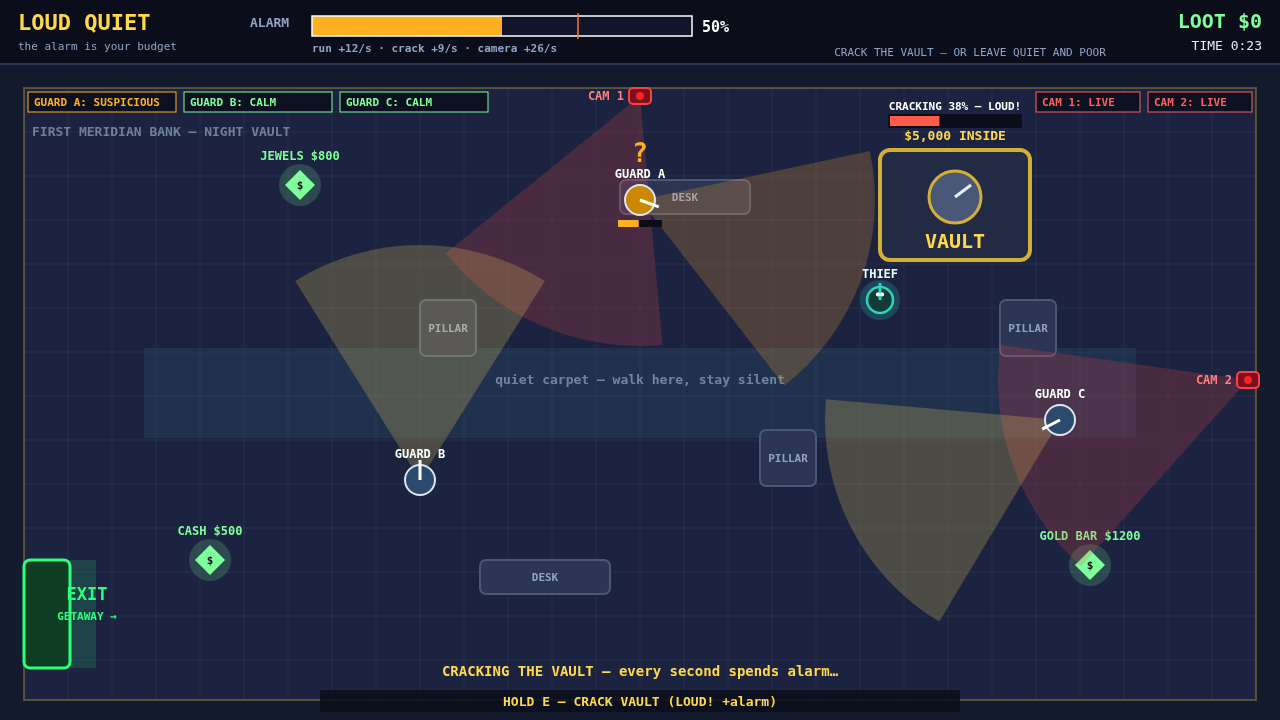
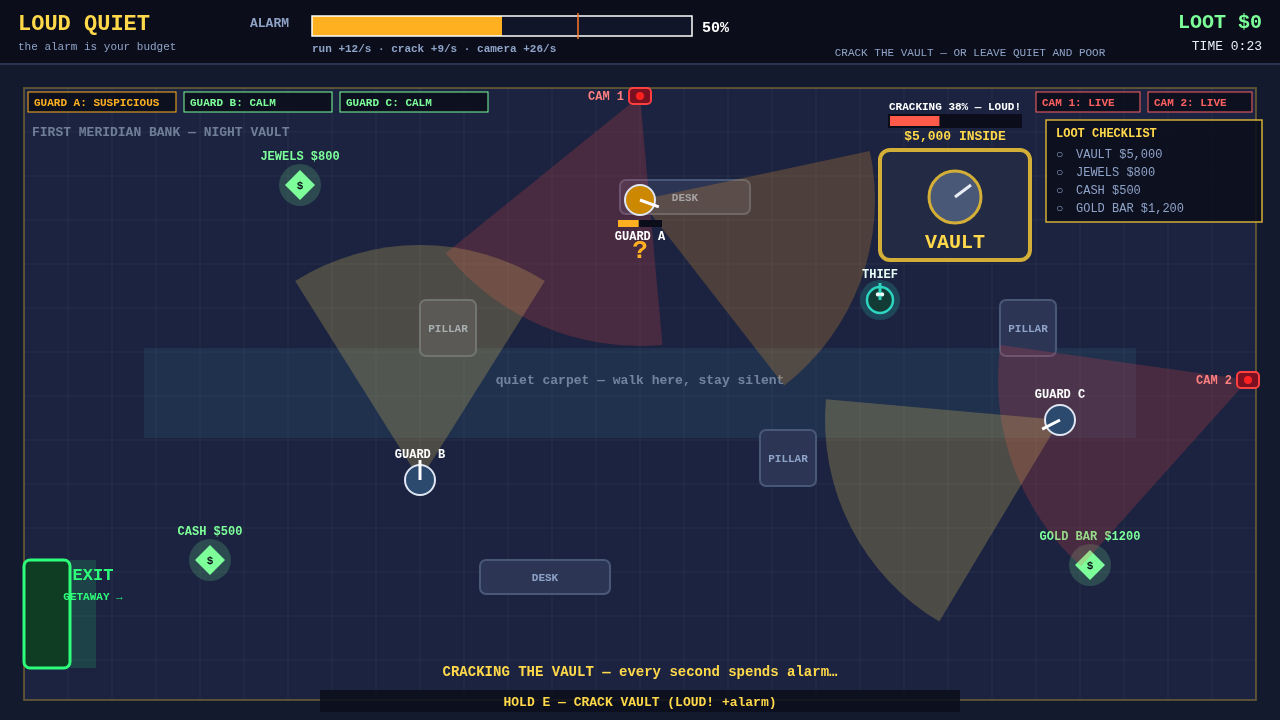
Revise: HUD loot checklist + label overlap fixes
- Add loot checklist to the HUD (drawLootChecklist + lootChecklist):
  VAULT $5,000 / JEWELS $800 / CASH $500 / GOLD BAR $1,200, ticked
  live from state, visible in play and in every screenshot scene.
- Guard name/mark flips below the guard when a cover block label sits
  above it (GUARD C vs PILLAR in the HUD shot).
- EXIT label moved up/right so it clears the thief's circle at the door.
- HUD shot stages the gold bar as taken so score $6,200 matches the
  checklist ($5,000 vault + $1,200 gold).
- README documents the checklist. No change to vendor, alarm numbers,
  or core mechanics.

diff --git a/game/src/render.js b/game/src/render.js
@@ -164,11 +164,24 @@ function drawExit(ctx) {
   ctx.fillStyle = '#2eff7a';
   ctx.font = 'bold 17px monospace';
   ctx.textAlign = 'center';
-  ctx.fillText('EXIT', EXIT.x + EXIT.w / 2 + 40, EXIT.y + EXIT.h / 2 - 14);
+  // The label sits right of the door and high: in the HUD shot the thief
+  // waits at the door (150, 660), and the old low label touched the
+  // thief's circle. Up here the text clears it by ~40 px.
+  ctx.fillText('EXIT', EXIT.x + EXIT.w / 2 + 46, EXIT.y + EXIT.h / 2 - 34);
   ctx.font = 'bold 11px monospace';
-  ctx.fillText('GETAWAY →', EXIT.x + EXIT.w / 2 + 40, EXIT.y + EXIT.h / 2 + 6);
+  ctx.fillText('GETAWAY →', EXIT.x + EXIT.w / 2 + 46, EXIT.y + EXIT.h / 2 - 14);
   ctx.fillStyle = 'rgba(46, 255, 122, 0.15)';
   ctx.fillRect(EXIT.x + EXIT.w, EXIT.y, 26, EXIT.h);
+}
+
+// A label drawn over a cover block's own label turns into mush: true
+// when a point sits inside any cover block (a few px of margin).
+function labelHitsCover(x, y) {
+  for (const block of COVER) {
+    if (x >= block.x - 6 && x <= block.x + block.w + 6
+      && y >= block.y - 6 && y <= block.y + block.h + 6) return true;
+  }
+  return false;
 }
 
 function drawGuard(ctx, guard) {
@@ -190,12 +203,17 @@ function drawGuard(ctx, guard) {
   ctx.fillStyle = '#ffffff';
   ctx.font = 'bold 12px monospace';
   ctx.textAlign = 'center';
-  ctx.fillText(guard.name, guard.x, guard.y - 22);
+  // The name sits above the guard — unless a pillar/desk label lives
+  // there (GUARD C staged under the east pillar in the HUD shot put
+  // "GUARD C" on top of "PILLAR"). Then name and mark go below the
+  // guard, under the suspicion bar, where the floor is clear.
+  const labelBelow = labelHitsCover(guard.x, guard.y - 22) || labelHitsCover(guard.x, guard.y - 38);
+  ctx.fillText(guard.name, guard.x, labelBelow ? guard.y + 40 : guard.y - 22);
   const mark = guard.stage === STAGE_CHASE ? '!' : guard.stage === STAGE_SUSPICIOUS ? '?' : '';
   if (mark) {
     ctx.fillStyle = guard.stage === STAGE_CHASE ? '#ff4040' : '#ffb020';
     ctx.font = 'bold 26px monospace';
-    ctx.fillText(mark, guard.x, guard.y - 38);
+    ctx.fillText(mark, guard.x, labelBelow ? guard.y + 58 : guard.y - 38);
   }
   if (guard.stage !== STAGE_CALM) {
     const bw = 44;
@@ -274,6 +292,42 @@ function alarmColor(alarm) {
   if (alarm >= ALARM.bustAlarm) return '#ff7a2a';
   if (alarm >= 40) return '#ffb020';
   return '#2dd4bf';
+}
+
+// The loot checklist: every haul in the room, ticked when pocketed.
+// Built from live state, so the HUD, the room and the score always agree:
+// the vault plus the three quiet-loot items, in vault-first order.
+export function lootChecklist(state) {
+  return [
+    { label: 'VAULT', value: VAULT.loot, taken: state.vaultLootTaken },
+    ...state.loot.map((item) => ({ label: item.label, value: item.value, taken: item.taken })),
+  ];
+}
+
+function drawLootChecklist(ctx, state) {
+  const items = lootChecklist(state);
+  // Docked top-right of the field, under the camera chips: clear of the
+  // vault (ends x 1030), the guards and the room title.
+  const px = CANVAS_WIDTH - 18 - 216;
+  const py = FIELD.y + 32;
+  const pw = 216;
+  const ph = 22 + items.length * 18 + 8;
+  ctx.fillStyle = 'rgba(11, 14, 26, 0.88)';
+  ctx.fillRect(px, py, pw, ph);
+  ctx.strokeStyle = '#d4af37';
+  ctx.lineWidth = 1.5;
+  ctx.strokeRect(px, py, pw, ph);
+  ctx.fillStyle = '#ffd94a';
+  ctx.font = 'bold 12px monospace';
+  ctx.textAlign = 'left';
+  ctx.fillText('LOOT CHECKLIST', px + 10, py + 17);
+  ctx.font = '12px monospace';
+  items.forEach((item, i) => {
+    const y = py + 38 + i * 18;
+    ctx.fillStyle = item.taken ? '#7dff9a' : '#8fa3c8';
+    ctx.fillText(item.taken ? '✓' : '○', px + 10, y);
+    ctx.fillText(`${item.label} $${item.value.toLocaleString()}`, px + 30, y);
+  });
 }
 
 function drawHud(ctx, state) {
@@ -367,6 +421,9 @@ function drawHud(ctx, state) {
     ctx.fillText(label, camX - 98, FIELD.y + 18);
     camX -= 112;
   }
+
+  // The loot checklist: what is still in the room, what is already pocketed.
+  drawLootChecklist(ctx, state);
 }
 
 function drawPrompt(ctx, state) {

diff --git a/game/src/shots.js b/game/src/shots.js
@@ -51,9 +51,12 @@ export function stageShot(name, world) {
     state.message = 'GUARD A IS CHASING YOU — break line of sight!';
     state.messageTimer = 99;
   } else if (name === 'hud') {
-    // The goal: vault loot secured, thief at the green EXIT, alarm cooling.
+    // The goal: vault loot secured, gold bar pocketed on the way out
+    // (score $6,200 = $5,000 vault + $1,200 gold — the checklist agrees),
+    // thief at the green EXIT, alarm cooling.
     state.vaultOpen = true;
     state.vaultLootTaken = true;
+    state.loot.find((item) => item.id === 'gold').taken = true;
     state.score = 6200;
     state.time = 74;
     state.alarm = 28;

diff --git a/README.md b/README.md
@@ -52,7 +52,9 @@ only comes out loud. Walk out quiet and poor, or run out rich and hunted.
 
 Alarm meter with the 70% bust line and the 100% lockdown line, loot in $,
 timer, objective line, per-guard status chips (CALM / SUSPICIOUS / CHASING)
-and per-camera chips (LIVE / OFF), plus a context prompt
+and per-camera chips (LIVE / OFF), a loot checklist (VAULT $5,000,
+JEWELS $800, CASH $500, GOLD BAR $1,200 — ticked ✓ as each haul is
+pocketed, ○ while it is still in the room), plus a context prompt
 ("HOLD E — CRACK VAULT (LOUD! +alarm)").
 
 ## Controls
@@ -75,7 +77,8 @@ two-tone lockdown siren, win fanfare, capture sting.
    50%, 3 guards with vision cones, 2 cameras, loot, EXIT, alarm meter
 2. `02-alarm.png` — the alarm mechanic: cracking the vault at 62%, meter climbing
 3. `03-spotted.png` — the near-miss: guard A's cone on the thief, alarm 85%, CHASE "!"
-4. `04-hud.png` — the goal: $6,200 carried, vault loot secured, thief at the EXIT
+4. `04-hud.png` — the goal: $6,200 carried, vault loot secured, gold bar
+   pocketed (loot checklist: VAULT ✓, GOLD BAR ✓), thief at the EXIT
 
 ## Run it
 
